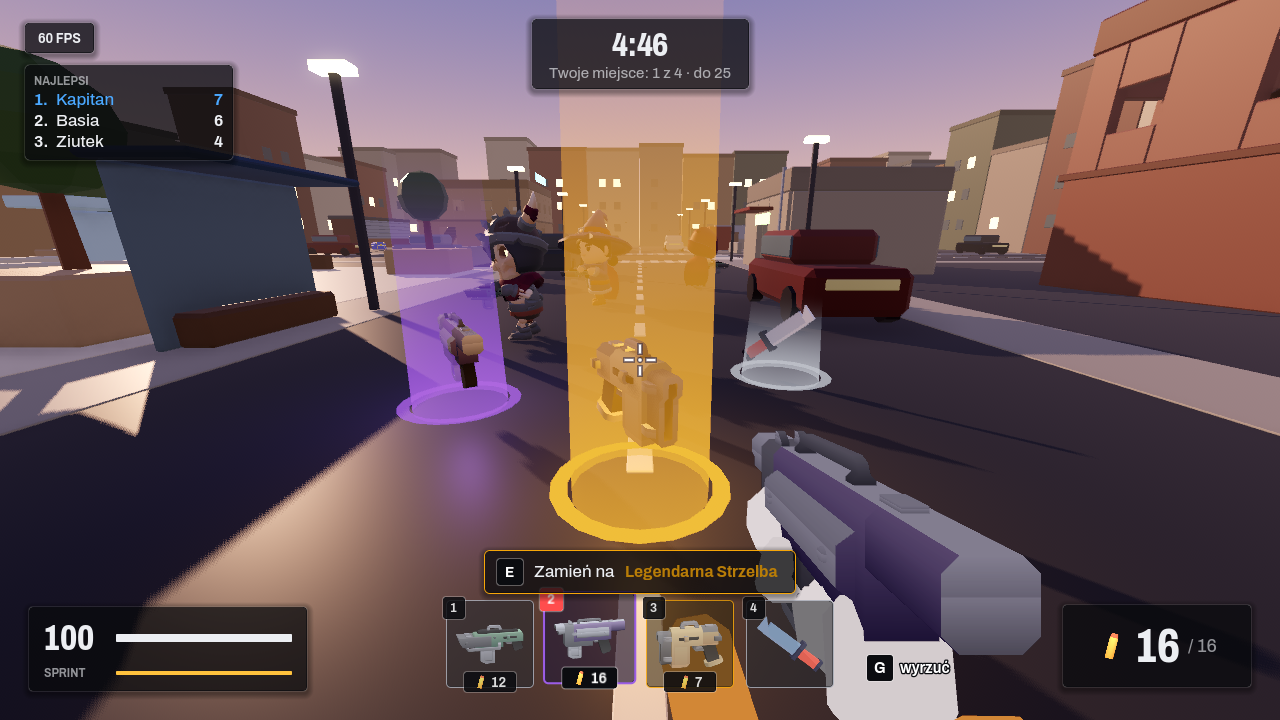
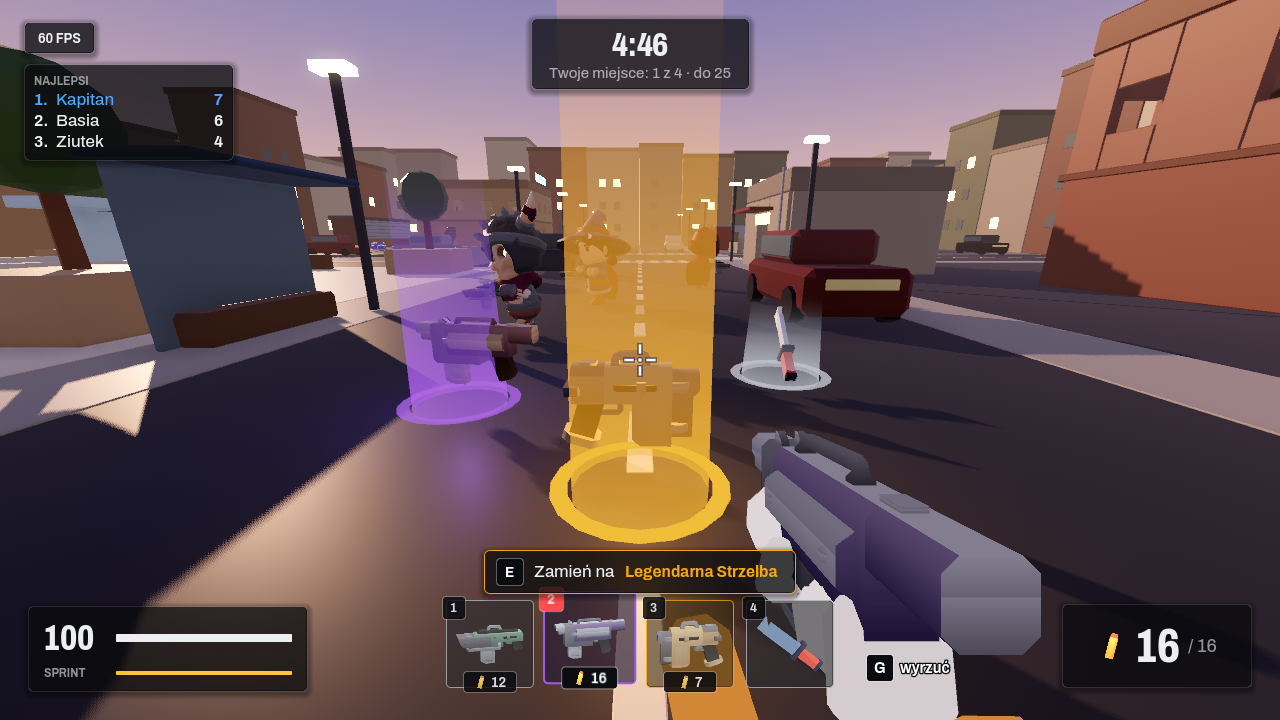
Neutral tone: Alfa/Bravo teams, plain death texts, refreshed map cards
- Teams "Kaktusy"/"Żuczki" become "Alfa"/"Bravo"; the win line reads
  "Wygrywa drużyna Bravo" / "Wygrywacie jako Alfa!".
- The rifle is "Karabinek" (assault rifle) instead of "Blaster".
- Death card: "Odpadasz · miejsce N" with a real cause ("Zabija Cię
  strefa", "Własny granat") instead of "Auć!".
- Team and status colors are no longer darkened for the old cream
  background, so they read on the dark panels.
- Muted podium steps (brass, steel, bronze) and forest terrain palette;
  map vote thumbnails re-rendered with the new look.

Dances stay as they are.

diff --git a/README.md b/README.md
@@ -43,7 +43,7 @@ Kolorowa strzelanka FPS multiplayer, w której gracze walczą jako małe figurki
 ## Co jest w grze
 
 - **Trzy tryby:** wybierasz je w menu głównym. Deathmatch to walka z odradzaniem, Team Deathmatch to walka dwóch drużyn, a w Battle Royale masz jedno życie.
-- **Team Deathmatch:** po wejściu wybierasz drużynę: pomarańczowe **Kaktusy** albo niebieskie **Żuczki** (albo „Losowo”). Drużyny różnią się najwyżej o jedną osobę. Liczą się zabójstwa całej drużyny, do 50. Nie ma ognia przyjacielskiego. Sojuszników poznasz po chuście w kolorze drużyny i plakietce widocznej przez ściany, a na mapce widać ich kropki. U góry ekranu jest wynik obu drużyn, pod Tab tabela w dwóch kolumnach, a na koniec rundy wygrana drużyna, MVP każdej z nich i podium zwycięzców.
+- **Team Deathmatch:** po wejściu wybierasz drużynę: pomarańczowa **Alfa** albo niebieska **Bravo** (albo „Losowo”). Drużyny różnią się najwyżej o jedną osobę. Liczą się zabójstwa całej drużyny, do 50. Nie ma ognia przyjacielskiego. Sojuszników poznasz po chuście w kolorze drużyny i plakietce widocznej przez ściany, a na mapce widać ich kropki. U góry ekranu jest wynik obu drużyn, pod Tab tabela w dwóch kolumnach, a na koniec rundy wygrana drużyna, MVP każdej z nich i podium zwycięzców.
 - **Pustynia:** duża mapa (ok. 130 × 130 m) do Deathmatchu i Team Deathmatchu: Stacja z wagonami i wieżą ciśnień, gliniana Twierdza, Targ z płóciennymi daszkami, Kanion z mostem linowym, Oaza z palmami i Wydmy z wrakiem ciężarówki. Złote, niskie słońce, piasek niesiony wiatrem i toczące się krzaki-kulki.
 - **Odrzut broni:** każda broń kopie inaczej: Desert Eagle mocno podbija lufę i cofa zamek, AWP ciężko wchodzi w ramię i przeładowuje rygiel, strzelba szarpie i przesuwa pompkę, a blaster lekko drży. Siłę uderzenia kamery ustawisz w ustawieniach, a kierunek strzału się nie zmienia.
 - **Twoja runda:** po każdej rundzie widzisz swoje zabójstwa, śmierci, celność, trafienia w głowę, obrażenia, najdłuższe zabójstwo i ulubioną broń, ze strzałkami w porównaniu z poprzednią rundą.
